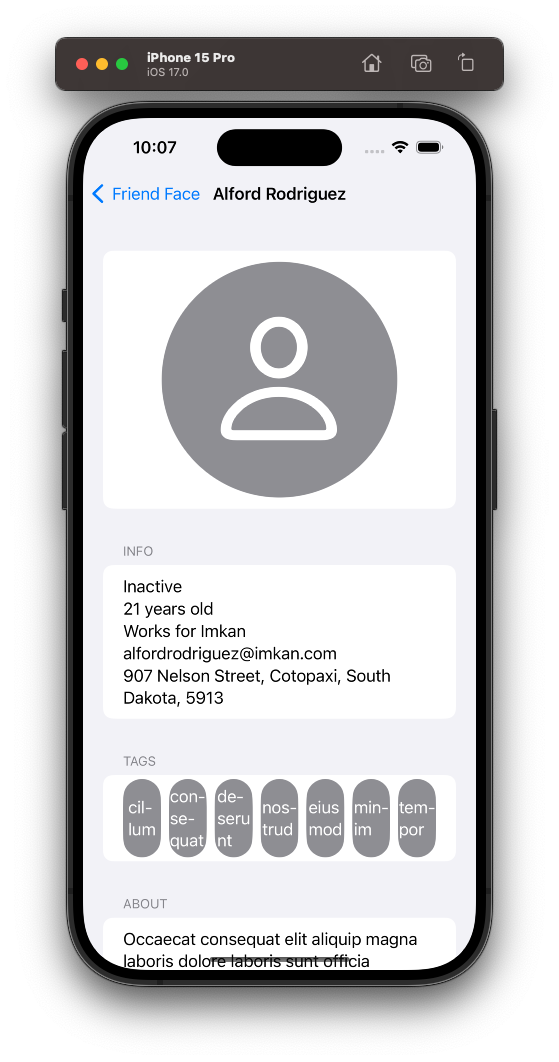
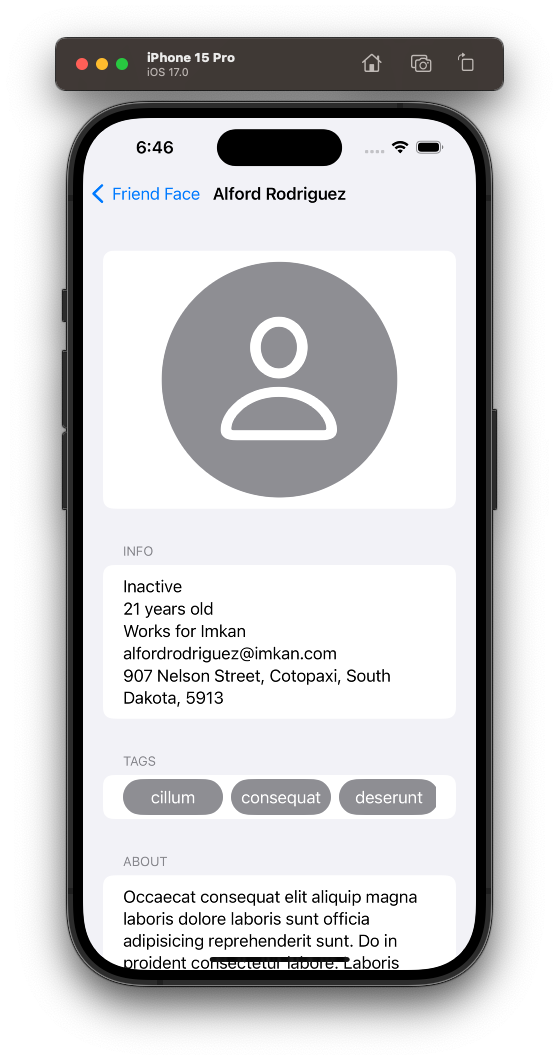
Day 61 final tweaks. Fix tag truncation on detail screen.

Changed region(s): [[0.2129, 0.7147, 0.7907, 0.9322], [0.2433, 0.1243, 0.3041, 0.1554]]

diff --git a/day-60/FriendFace/FriendFace/UserDetailView.swift b/day-60/FriendFace/FriendFace/UserDetailView.swift
@@ -37,14 +37,18 @@ struct UserDetailView: View {
                 }
                 
                 Section("Tags") {
-                    HStack {
-                        ForEach(user.tags, id: \.self) { tag in
-                            ZStack {
-                                Capsule()
-                                    .foregroundColor(.gray)
-                                
-                                Text(tag)
-                                    .foregroundColor(.white)
+                    ScrollView(.horizontal) {
+                        HStack {
+                            ForEach(user.tags, id: \.self) { tag in
+                                ZStack {
+                                    Capsule()
+                                        .foregroundColor(.gray)
+                                        .frame(minWidth: 100)
+                                    
+                                    Text(tag)
+                                        .foregroundColor(.white)
+                                        .fixedSize()
+                                }
                             }
                         }
                     }
